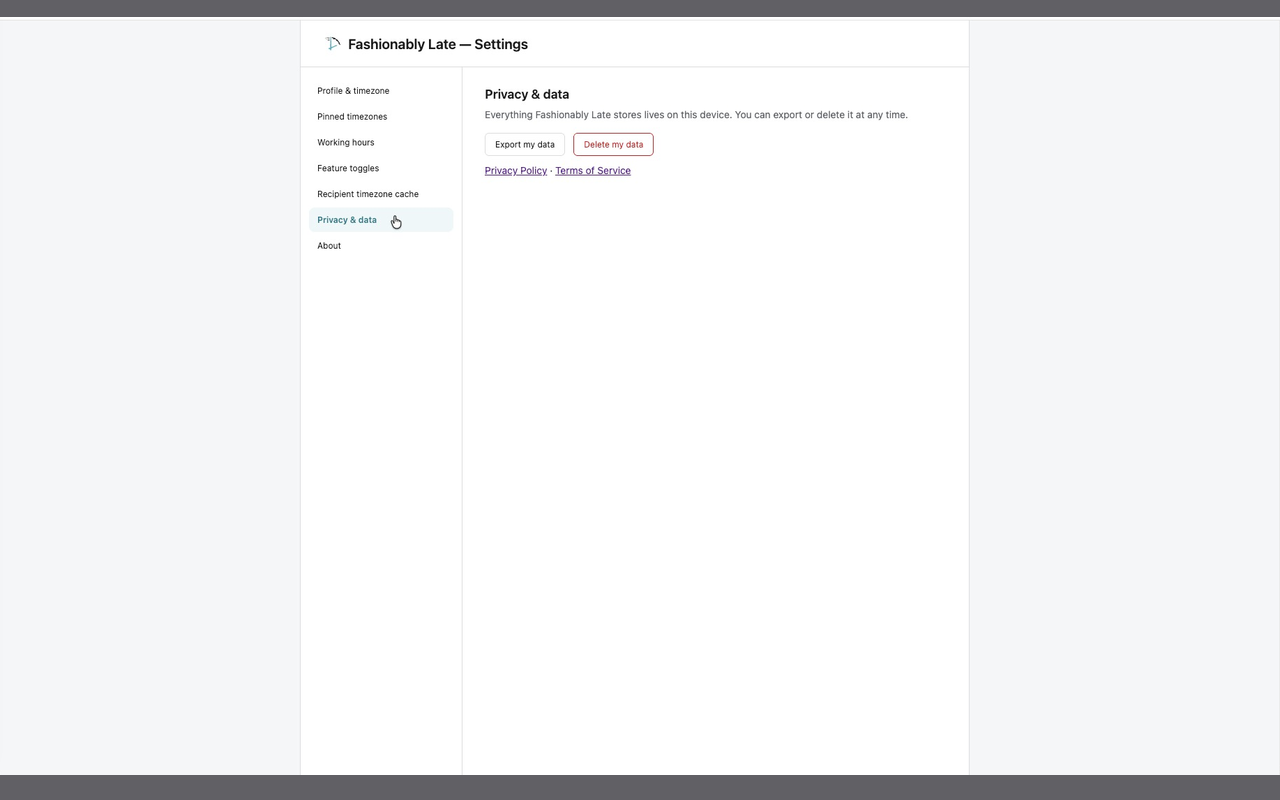
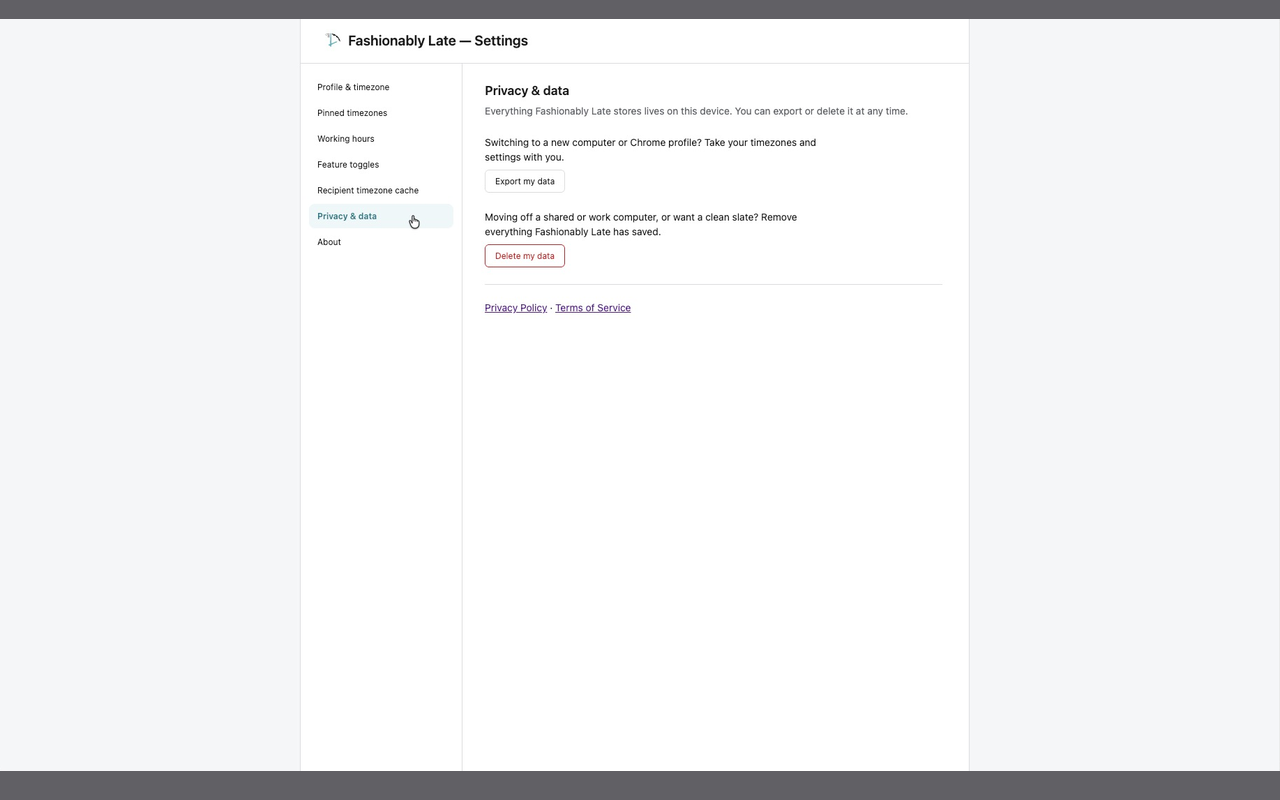
release: consolidate Privacy & data redesign into single 1.0.0; refresh screenshot
Owner cancelled the pre-start Web Store review and reuploads as 1.0.0, so the
Privacy & data settings redesign (scenario lines, 24px rhythm, hairline divider
separating the policy links) ships in 1.0.0 rather than a staged 1.0.1.

- Revert version 1.0.1 -> 1.0.0 (manifest.config.ts source of truth + package.json)
- Delete staged fashionably-late-1.0.1.zip; regenerate fashionably-late-1.0.0.zip
  (key stripped from zip, dist keeps key, manifest at root, perms storage+scripting,
  host mail.google.com only, version 1.0.0; MV3 SW-loader invariant holds)
- Landing page: refresh "A closer look" privacy-data tile to the latest capture
  (1863x1082, height attr 1090->1082); regenerate its store-ready PNG via
  make-store-ready.py (originals immutable, SHA-256 unchanged)
- Docs: session-20 summary, Entry 61 amended (reversal, history kept), CLAUDE.md
  current-state back to 1.0.0

Delete still confirms before wiping; SCHEMA_VERSION 4; tests 376.

diff --git a/extension/manifest.config.ts b/extension/manifest.config.ts
@@ -16,11 +16,11 @@ export default defineManifest({
   manifest_version: 3,
   name: "Fashionably Late",
   // First public release (owner, Session 13). SemVer: 0.x.y was the pre-release
-  // dev placeholder; 1.0.0 marks the first stable/shipped version. 1.0.1 is a
-  // STAGED post-launch update (Session 20, Entry 61): the Privacy & data
-  // settings copy/layout redesign — uploaded after 1.0.0 clears Web Store
-  // review. No permission/host/SCHEMA_VERSION change vs 1.0.0.
-  version: "1.0.1",
+  // dev placeholder; 1.0.0 marks the first stable/shipped version. The Settings
+  // "Privacy & data" copy/layout redesign was briefly staged as 1.0.1 but folded
+  // back into 1.0.0 before review started (owner cancelled + reuploads — Entry
+  // 61). It ships in the single 1.0.0 store zip.
+  version: "1.0.0",
   // Pins a STABLE unpacked-extension ID (dicnmcmhapcfceodecocnkaacjdpplnm).
   // Without this the dev ID changes every load, which would break the OAuth
   // redirect URI (https://<id>.chromiumapp.org/) on every reload (Session 7

diff --git a/docs/index.html b/docs/index.html
@@ -916,7 +916,7 @@ title: "Fashionably Late — Schedule Gmail emails in your recipient's time zone
                     src="/assets/screenshots/privacy-data.jpg"
                     alt="The Privacy & Data section of Settings, showing on-device Export and Delete controls."
                     width="1863"
-                    height="1090"
+                    height="1082"
                   />
                   <figcaption>Export or delete everything on-device, any time.</figcaption>
                 </figure>

diff --git a/notes/session-20-summary.md b/notes/session-20-summary.md
@@ -320,12 +320,19 @@ The old `schedule-modal.jpg` (now unreferenced) and `schedule-optimize.png`
 remain in place. Live GitHub Pages rebuild is the real proof (owner to confirm
 the page + that `/legal/{privacy,terms}` still render unchanged).
 
-## §o — Privacy & data settings redesign + 1.0.1 cut (STAGED post-launch update)
+## §o — Privacy & data settings redesign (ships in 1.0.0)
 
-First extension-code change since 1.0.0 was packaged for the Web Store. The 1.0.0
-zip is in review and was left untouched; this ships as a **staged 1.0.1** the
-owner uploads after 1.0.0 clears (rationale + the cut-and-stage discipline:
-**Entry 61**).
+> **Correction (later in S20):** this redesign was briefly cut as a *staged
+> 1.0.1* to ride behind an in-review 1.0.0. The owner then **cancelled that
+> review before it started and folded everything back into a single 1.0.0**
+> (one clean store zip). The history below is left intact for the record, but the
+> net result is: **version is 1.0.0 everywhere; there is no 1.0.1.** See the
+> amended **Entry 61**. The Privacy & data redesign, spacing, and the
+> divider/links separation all ship in **1.0.0**.
+
+First extension-code change since 1.0.0 was first packaged. The redesign + its two
+follow-ups (spacing, divider) are all copy/layout-only and all ship in the single
+1.0.0 store zip.
 
 **Privacy & data redesign (copy + layout only).** `PrivacyDataSection.tsx` was
 restructured so each action *earns itself* with a one-line scenario above its
@@ -343,31 +350,32 @@ single `.fl-set-privacy-actions` flex-row. **No logic touched:** `handleExport`,
 before wiping.** No other settings section or hot path touched; §11 invariants
 stand.
 
-**Version bump 1.0.0 → 1.0.1** in `manifest.config.ts` (source of truth) and
-`package.json` (kept in sync). About-page version is read dynamically from the
-manifest, so no section edit was needed. **`npm run package`** produced
-`extension/release/fashionably-late-1.0.1.zip` (108.9 KB, 27 entries) — all
-verifications passed: `key` stripped from the zipped manifest, `dist/manifest.json`
-still has its `key`, `manifest.json` at zip root, **permissions `["storage","scripting"]`
-+ host `["https://mail.google.com/*"]` unchanged**, version 1.0.1. The
-`fashionably-late-1.0.0.zip` in `release/` is untouched.
+**Version (final state).** Briefly bumped 1.0.0 → 1.0.1, then **reverted to
+1.0.0** when the owner cancelled the review and reuploaded as a single 1.0.0
+(`manifest.config.ts` source of truth + `package.json` back to 1.0.0; the staged
+`fashionably-late-1.0.1.zip` was deleted). About-page version reads dynamically
+from the manifest, so no section edit was needed. **`npm run package`** produced
+`extension/release/fashionably-late-1.0.0.zip` — all verifications passed: `key`
+stripped from the zipped manifest, `dist/manifest.json` still has its `key`,
+`manifest.json` at zip root, **permissions `["storage","scripting"]` + host
+`["https://mail.google.com/*"]` unchanged**, version **1.0.0**. This single zip
+carries the redesign + spacing + divider.
 
 **Verify:** typecheck / lint / format:check / build all clean; **test count 376
 (no delta** — the existing PrivacyDataSection tests query by button name, dialog,
 and links, all preserved). `SCHEMA_VERSION` still 4.
 
-**Spacing follow-up (same staged 1.0.1, copy/layout only).** The Privacy & data
+**Spacing follow-up (copy/layout only).** The Privacy & data
 vertical rhythm was uneven (intro hugged the first scenario; the two blocks drifted
 apart by more than the intro gap). Restructured into a deliberate three-tier scale
 on the existing 8/16/24 tokens: **24px after the intro** (new `.fl-set-privacy-intro`
 modifier on the intro `<p>`, leaving the shared `.fl-set-help` untouched), **16px
 equal between the Export and Delete blocks** (`.fl-set-privacy-action` 20→16), and
 **8px scenario→button** within each block (unchanged) so each line+button reads as a
-pair; legal links stay spaced below Delete. No new arbitrary margins. The staged
-`fashionably-late-1.0.1.zip` was rebuilt to include it (still 1.0.1, not yet
-uploaded; verifications re-passed, permissions/host unchanged).
+pair; legal links stay spaced below Delete. No new arbitrary margins. (Folded
+into the final single 1.0.0 zip.)
 
-**Policy-links separation (same staged 1.0.1, copy/layout only).** The Privacy
+**Policy-links separation (copy/layout only).** The Privacy
 Policy · Terms links read as a sub-action of Delete (too close beneath it). Added
 a thematic `<hr className="fl-set-privacy-divider">` between the Delete block and
 the links — a 0.5px hairline driven by the existing `var(--fl-border)` token (so
@@ -376,5 +384,14 @@ with **equal 24px above and below**. To keep one even rhythm down the whole
 section the inter-group gap was unified to **24px** (`.fl-set-privacy-action`
 16→24, matching the intro's 24), leaving the 8px scenario→button pair intact.
 Per owner instruction the optional "RESOURCES" label was **skipped** — the
-divider alone does the separating. Links unchanged. Zip rebuilt (1.0.1); bundle
-verified to contain the divider + 24px rhythm; permissions/host unchanged.
+divider alone does the separating. Links unchanged. (Ships in the final 1.0.0
+zip; bundle verified to contain the divider + 24px rhythm; permissions/host
+unchanged.)
+
+**Landing-page screenshot refresh (website, not in the zip).** The "A closer
+look" privacy-data tile (`docs/assets/screenshots/privacy-data.jpg`) was updated
+to the owner's latest capture (`media/web-store/screenshots/Settings - Privacy
+and Data.jpg`, 1863×1082) showing the redesigned page; `height` attr corrected
+1090→1082, and the store-ready `Settings - Privacy and Data-1280x800.png` was
+regenerated via `make-store-ready.py` (immutable-originals rule held — source
+SHA-256 unchanged across the run).

diff --git a/notes/owner-decisions-log.md b/notes/owner-decisions-log.md
@@ -2854,7 +2854,7 @@ this one.
 
 ---
 
-## Entry 61 — Version 1.0.1 cut and STAGED: the Privacy & data settings redesign ships as a post-launch update, after 1.0.0 clears review
+## Entry 61 — Privacy & data settings redesign: briefly cut as a staged 1.0.1, then REVERSED into a single 1.0.0 (review cancelled before it started)
 
 - **Session:** 20 (2026-05-29 — same session as Entry 60; this is a small
   extension-code change, the first since 1.0.0 was packaged for the Web Store).
@@ -2886,6 +2886,19 @@ this one.
 - **(Numbering note:** the task brief suggested "Entry 59" but the log already
   holds Entries through 60 — Entry 59 is the S19 no-recipient guard — so this is
   correctly **Entry 61**.)
+- **REVERSAL (same session, 2026-05-29 — Entry-4-style addendum, history kept
+  above intact).** The owner reconsidered the staging and decided the review
+  **had not actually started**, so cancelling and reuploading was free. Rather
+  than carry a separate post-launch 1.0.1, they **folded the redesign back into
+  1.0.0**: version reverted to `1.0.0` in `manifest.config.ts` + `package.json`,
+  the staged `fashionably-late-1.0.1.zip` deleted, and one clean
+  `fashionably-late-1.0.0.zip` regenerated carrying the redesign + spacing +
+  divider. **Net: there is no 1.0.1; everything ships in a single 1.0.0.** The
+  "staging discipline" framing above is therefore moot for this release — it was
+  the right call *only while* the review was believed to be in flight; once it
+  wasn't, consolidating to one version is simpler and avoids an immediate
+  follow-up upload. Delete still confirms before wiping; permissions/host +
+  `SCHEMA_VERSION` (4) + test count (376) unchanged throughout.
 
 ---
 